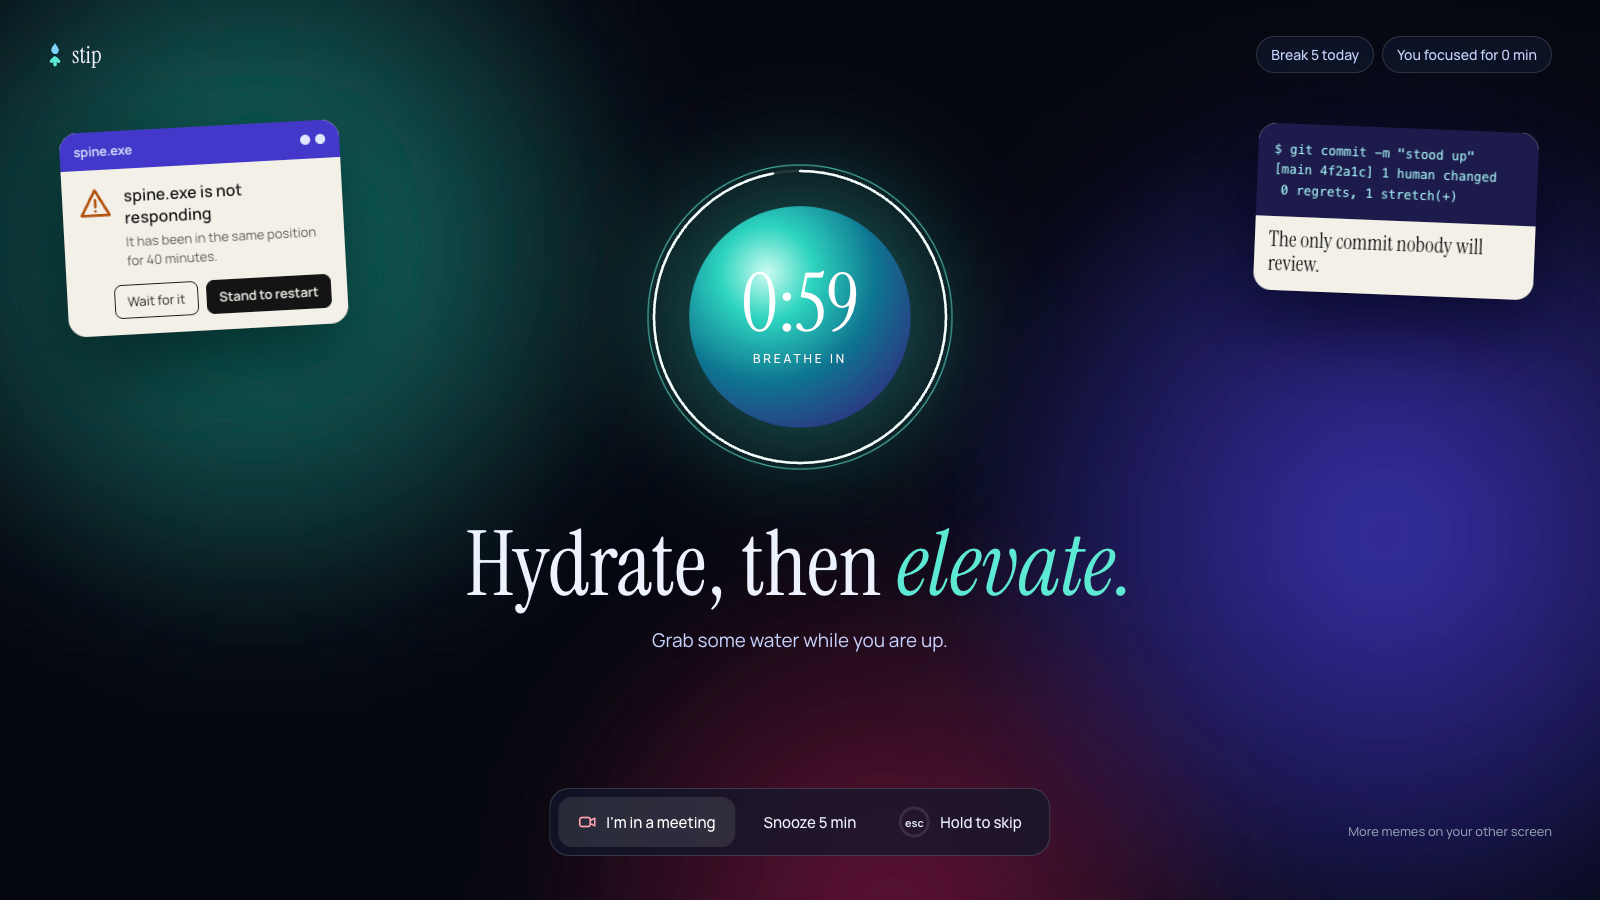
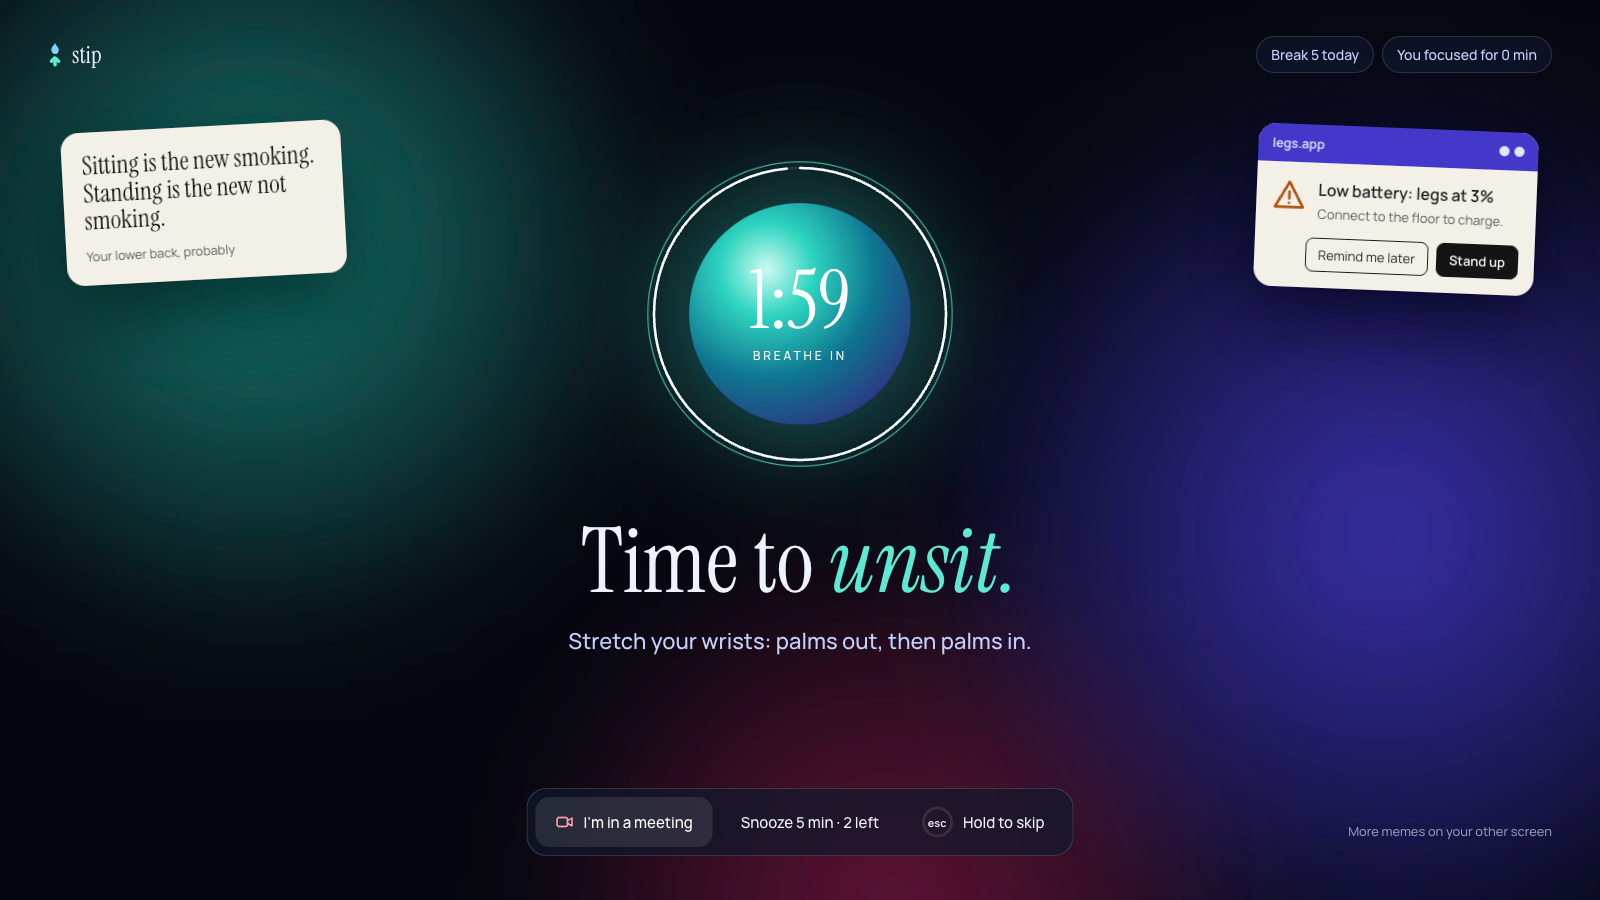
Update docs and landing page for the new defaults

diff --git a/docs/index.html b/docs/index.html
@@ -4,7 +4,7 @@
   <meta charset="utf-8">
   <meta name="viewport" content="width=device-width, initial-scale=1">
   <title>Stip: free stand-up and water reminder for Mac, Windows and Linux</title>
-  <meta name="description" content="Stip is a free, open-source break reminder. Every 40 minutes it covers your screens with a one-minute stand break, and it nudges you to drink water.">
+  <meta name="description" content="Stip is a free, open-source break reminder. Every 30 minutes it covers your screens with a two-minute stand break, and it nudges you to drink water.">
   <meta name="keywords" content="stand up reminder, break reminder app, water reminder, drink water reminder, sitting too long, desktop break timer, open source, macOS, Windows, Linux">
   <meta name="author" content="Amresh Vs">
   <meta name="robots" content="index, follow, max-image-preview:large">
@@ -15,17 +15,17 @@
   <meta property="og:site_name" content="Stip">
   <meta property="og:url" content="https://amreshvs.github.io/stip/">
   <meta property="og:title" content="Stip: stand up, sip water, then ship">
-  <meta property="og:description" content="A free desktop app that covers your screens with a one-minute stand break every 40 minutes and reminds you to drink water.">
+  <meta property="og:description" content="A free desktop app that covers your screens with a two-minute stand break every 30 minutes and reminds you to drink water.">
   <meta property="og:image" content="https://amreshvs.github.io/stip/og.png">
   <meta property="og:image:width" content="1200">
   <meta property="og:image:height" content="630">
-  <meta property="og:image:alt" content="Stip's break screen: a lime breathing timer at 0:59 and the words Up you get, with two memes">
+  <meta property="og:image:alt" content="Stip's break screen: a lime breathing timer counting down two minutes, a short stretch to do, and two memes">
   <meta property="og:locale" content="en_US">
   <meta name="twitter:card" content="summary_large_image">
   <meta name="twitter:title" content="Stip: stand up, sip water, then ship">
-  <meta name="twitter:description" content="A free desktop app that covers your screens with a one-minute stand break every 40 minutes and reminds you to drink water.">
+  <meta name="twitter:description" content="A free desktop app that covers your screens with a two-minute stand break every 30 minutes and reminds you to drink water.">
   <meta name="twitter:image" content="https://amreshvs.github.io/stip/og.png">
-  <meta name="twitter:image:alt" content="Stip's break screen: a lime breathing timer at 0:59 and the words Up you get, with two memes">
+  <meta name="twitter:image:alt" content="Stip's break screen: a lime breathing timer counting down two minutes, a short stretch to do, and two memes">
 
   <meta name="theme-color" content="#2f5ce8">
   <link rel="icon" href="icon.svg" type="image/svg+xml">
@@ -39,7 +39,7 @@
     "@type": "SoftwareApplication",
     "name": "Stip",
     "alternateName": "Stip: Stand. Sip. Ship.",
-    "description": "A free, open-source desktop app that covers your screens with a one-minute stand break every 40 minutes and reminds you to drink water.",
+    "description": "A free, open-source desktop app that covers your screens with a two-minute stand break every 30 minutes and reminds you to drink water.",
     "url": "https://amreshvs.github.io/stip/",
     "image": "https://amreshvs.github.io/stip/og.png",
     "screenshot": [
@@ -85,7 +85,7 @@
     </h1>
 
     <div class="hero-foot">
-      <p class="lede">Stip is a free desktop app that covers your screens with a one-minute stand break every 40 minutes, and nudges you to drink water.</p>
+      <p class="lede">Stip is a free desktop app that covers your screens with a two-minute stand break every 30 minutes, and nudges you to drink water.</p>
       <div class="hero-actions">
         <button class="button lime" type="button" data-try-break>Try a break now</button>
         <a class="text-link" href="https://github.com/AmreshVs/stip">Get it on GitHub</a>
@@ -95,21 +95,21 @@
 
   <main id="main">
     <figure class="bleed shot-break reveal">
-      <img src="screenshots/break-flat.png" width="1600" height="900" alt="Stip's break screen: a lime breathing timer reading 0:59, the words Keep calm and stand up, and two memes on the sides">
+      <img src="screenshots/break-flat.png" width="1600" height="900" alt="Stip's break screen: a lime breathing timer counting down two minutes, a short stretch to do, and two memes">
       <figcaption>The break, on your main screen. Your other monitors get memes.</figcaption>
     </figure>
 
     <section class="compare" aria-labelledby="compare-title">
       <div class="compare-head reveal">
-        <h2 id="compare-title">Forty, then one</h2>
-        <p>Forty minutes sitting, then one minute standing. That's the whole deal. Stip counts down quietly in your menu bar, then takes over every display for sixty seconds with a breathing timer, so you actually get up instead of swatting a notification away.</p>
+        <h2 id="compare-title">Thirty, then two</h2>
+        <p>Thirty minutes sitting, then two minutes standing. That's the whole deal. Stip counts down quietly in your menu bar, then takes over every display with a breathing timer and something simple to do, so you actually get up instead of swatting a notification away.</p>
       </div>
       <div class="specimens">
         <div class="specimen reveal">
-          <p class="specimen-num" aria-label="40 minutes sitting">40:00</p>
+          <p class="specimen-num" aria-label="30 minutes sitting">30:00</p>
         </div>
         <div class="specimen reveal">
-          <p class="specimen-num" aria-label="1 minute standing">1:00</p>
+          <p class="specimen-num" aria-label="2 minutes standing">2:00</p>
         </div>
       </div>
     </section>
@@ -134,7 +134,7 @@
         <li class="band blue" data-on="false">
           <div class="band-text">
             <p class="band-line">Count my coffee run as a break</p>
-            <p class="band-more">Five minutes away from the keyboard resets the timer. So does sleep.</p>
+            <p class="band-more">Three minutes away from the keyboard resets the timer. So does sleep.</p>
           </div>
           <button class="switch" type="button" role="switch" aria-checked="false" aria-label="Count my coffee run as a break" data-ui><i></i></button>
         </li>
@@ -174,13 +174,13 @@
     <section class="ask" aria-labelledby="ask-title">
       <h2 class="ask-title reveal" id="ask-title">When will it ask?</h2>
       <label class="visually-hidden" for="interval">How often should Stip remind you to stand?</label>
-      <input class="ask-input" id="interval" type="text" value="every 40 minutes" autocomplete="off" spellcheck="false" data-ui>
+      <input class="ask-input" id="interval" type="text" value="every 30 minutes" autocomplete="off" spellcheck="false" data-ui>
       <div class="ask-answer" aria-live="polite" data-ui>
         <p class="ask-summary" id="ask-summary"></p>
         <ol class="ask-times" id="ask-times"></ol>
       </div>
       <div class="ask-examples" aria-label="Try another interval">
-        <button type="button" data-example="every 30 minutes">every 30 minutes</button>
+        <button type="button" data-example="every 40 minutes">every 40 minutes</button>
         <button type="button" data-example="every 45 min">every 45 min</button>
         <button type="button" data-example="every hour">every hour</button>
       </div>
@@ -192,7 +192,7 @@
         <p>Settings are plain and quick: how often, how long, how strict. The Stats page shows your stand streak, breaks by hour and water over the last seven days. All of it stays on your computer.</p>
       </div>
       <figure class="week-settings reveal">
-        <img src="screenshots/settings-flat.png" width="1120" height="760" loading="lazy" alt="Stip settings for stand breaks: a 40 minute slider, break length, three strictness choices and display options">
+        <img src="screenshots/settings-flat.png" width="1120" height="760" loading="lazy" alt="Stip settings for stand breaks: a 30 minute slider, break length, three strictness choices and display options">
         <figcaption>Settings</figcaption>
       </figure>
       <figure class="week-stats reveal">
@@ -216,6 +216,7 @@
         <p><strong>Which computers does it run on?</strong> macOS, Windows and Linux. On macOS the countdown also sits right in the menu bar.</p>
         <p><strong>Does it send my data anywhere?</strong> No. Stip makes no network requests. Settings and stats are small files on your own computer.</p>
         <p><strong>What if I'm in a meeting?</strong> Press "I'm in a meeting" on the break, or turn on meeting mode from the tray. Zoom calls are spotted on their own. The break waits and starts 30 seconds after the call.</p>
+        <p><strong>Can I put a break off?</strong> Snooze it for 5 minutes, twice in a row at most. After that, it's time to stand.</p>
         <p><strong>Can I skip a break?</strong> Yes, by holding Esc for three seconds, so you can't skip by reflex. Gentle mode lets you skip with one press; strict mode doesn't let you skip at all.</p>
         <p><strong>Will it bother me at night?</strong> Not if you set working hours. Outside them the tray just says when it'll be back.</p>
         <p><strong>Where do the memes come from?</strong> Every one was written for Stip. "spine.exe is not responding" is a house favourite.</p>
@@ -249,7 +250,7 @@
     <aside class="demo-meme" aria-hidden="true">
       <div class="meme-bar"><span>spine.exe</span><span class="meme-dots"><i></i><i></i></span></div>
       <p class="meme-head">spine.exe is not responding</p>
-      <p class="meme-body">It has been in the same position for 40 minutes.</p>
+      <p class="meme-body">It has been in the same position for 30 minutes.</p>
       <p class="meme-buttons"><span>Wait for it</span><span class="go">Stand to restart</span></p>
     </aside>
     <div class="demo-center">
@@ -259,7 +260,7 @@
         <div class="orb-text"><span class="orb-time" id="demo-time">0:20</span><span class="orb-breath" id="demo-breath">Breathe in</span></div>
       </div>
       <p class="demo-title" id="demo-title">Keep calm and stand up.</p>
-      <p class="demo-sub" id="demo-sub">This is a 20-second taste. The real one lasts a minute.</p>
+      <p class="demo-sub" id="demo-sub">This is a 20-second taste. The real one lasts two minutes.</p>
     </div>
     <div class="demo-escape">
       <button type="button" class="esc-meeting" data-demo-close="meeting">I'm in a meeting</button>

diff --git a/docs/site.js b/docs/site.js
@@ -34,7 +34,7 @@ $$('.band').forEach((band) => {
   });
 });
 
-/* When will it ask? Reads "every 40 minutes", "45 min", "every hour"... */
+/* When will it ask? Reads "every 30 minutes", "45 min", "every hour"... */
 const input = $('#interval');
 
 function parseInterval(text) {
@@ -55,7 +55,7 @@ function renderSchedule() {
   const summary = $('#ask-summary');
   const list = $('#ask-times');
   if (!every || every < 15 || every > 90) {
-    summary.textContent = 'Stip asks every 15 to 90 minutes. Try "every 40 minutes".';
+    summary.textContent = 'Stip asks every 15 to 90 minutes. Try "every 30 minutes".';
     list.replaceChildren();
     return;
   }
@@ -110,7 +110,7 @@ function tick() {
   if (left === 0) {
     clearInterval(ticker);
     $('#demo-title').textContent = 'Nice. Back to it.';
-    $('#demo-sub').textContent = 'That was a stand break. Stip does this every 40 minutes.';
+    $('#demo-sub').textContent = 'That was a stand break. Stip does this every 30 minutes.';
     setTimeout(() => closeDemo('Try another break'), 1600);
   }
 }
@@ -118,7 +118,7 @@ function tick() {
 function openDemo(event) {
   opener = event.currentTarget;
   $('#demo-title').textContent = 'Keep calm and stand up.';
-  $('#demo-sub').textContent = 'This is a 20-second taste. The real one lasts a minute.';
+  $('#demo-sub').textContent = 'This is a 20-second taste. The real one lasts two minutes.';
   demo.hidden = false;
   document.body.style.overflow = 'hidden';
   endsAt = Date.now() + DEMO_SEC * 1000;

diff --git a/docs/site.css b/docs/site.css
@@ -261,7 +261,7 @@ a {
   font-size: var(--t-small);
 }
 
-/* Forty, then one */
+/* Thirty, then two */
 .compare {
   padding: clamp(96px, 12vw, 180px) var(--m) clamp(48px, 6vw, 96px);
   overflow: clip;

diff --git a/README.md b/README.md
@@ -18,19 +18,19 @@
   <img src="docs/screenshots/break-flat.png" alt="The stand break: a breathing lime timer in the middle of the screen, the words Keep calm and stand up, and two memes">
 </p>
 
-Every 40 minutes, Stip covers your screens with a calm one-minute stand break. Every half hour, a water drop runs down the edge of your screen into a little orb that asks you to take a sip. It lives in your menu bar or system tray, stays out of your way during calls, and never sends your data anywhere.
+Every 30 minutes, Stip covers your screens with a calm two-minute stand break, with something simple to do: a stretch, a look out of the window, a glass of water. Every half hour, a water drop runs down the edge of your screen into a little orb that asks you to take a sip. It lives in your menu bar or system tray, stays out of your way during calls, and never sends your data anywhere.
 
 ## What it does
 
 **Stand breaks that are hard to ignore.** A full-screen break covers every display: a breathing timer on your main screen, memes on the others. A soft chime tells you when you can sit back down.
 
-**A way out when you need one.** "I'm in a meeting" waits until your call ends. "Snooze 5 min" does what it says. Skipping takes a 3-second hold of Esc, so you can't dismiss it by reflex. Pick how strict it should be: gentle, balanced or strict.
+**A way out when you need one.** "I'm in a meeting" waits until your call ends. "Snooze 5 min" works twice in a row, then it's time to stand. Skipping takes a 3-second hold of Esc, so you can't dismiss it by reflex. Pick how strict it should be: gentle, balanced or strict.
 
 **Calls are safe.** Turn on meeting mode from the tray and the break waits. Zoom calls are detected automatically. The break starts 30 seconds after the call ends.
 
 **A water reminder you'll actually notice.** The screen dims a little, a drop falls into an orb in the corner, and the water level shows how much you've had today. One click logs a glass, and clicks pass straight through to your apps everywhere else.
 
-**Fair timing.** Five minutes away from the keyboard counts as a break, and the timer restarts after your computer sleeps or locks. Set working days and hours, or pause for 30 minutes, an hour or the rest of the day.
+**Fair timing.** Three minutes away from the keyboard counts as a break, and the timer restarts after your computer sleeps or locks. Set working days and hours, or pause for 30 minutes, an hour or the rest of the day.
 
 **Your week at a glance.** A Stats page shows your stand streak, breaks by hour, and water over the last seven days.
 

diff --git a/CHANGELOG.md b/CHANGELOG.md
@@ -6,7 +6,8 @@ All notable changes to Stip are listed here. The format follows [Keep a Changelo
 
 ### Added
 
-- Full-screen stand break on every display, with a breathing timer on the main screen and original memes on the others.
+- Full-screen stand break on every display, with a breathing timer and a simple task on the main screen, and original memes on the others. Defaults: every 30 minutes, for 2 minutes.
+- A snooze limit: after 2 snoozes in a row, the break can't be put off. A finished break resets it.
 - Ways out of a break: "I'm in a meeting", "Snooze 5 min", and a 3-second Esc hold to skip. Gentle, balanced and strict modes.
 - Meeting mode, and automatic Zoom call detection. Breaks wait until the call ends.
 - Water reminder: a drop runs down the screen into an orb showing today's intake, with the rest of the screen dimmed.
